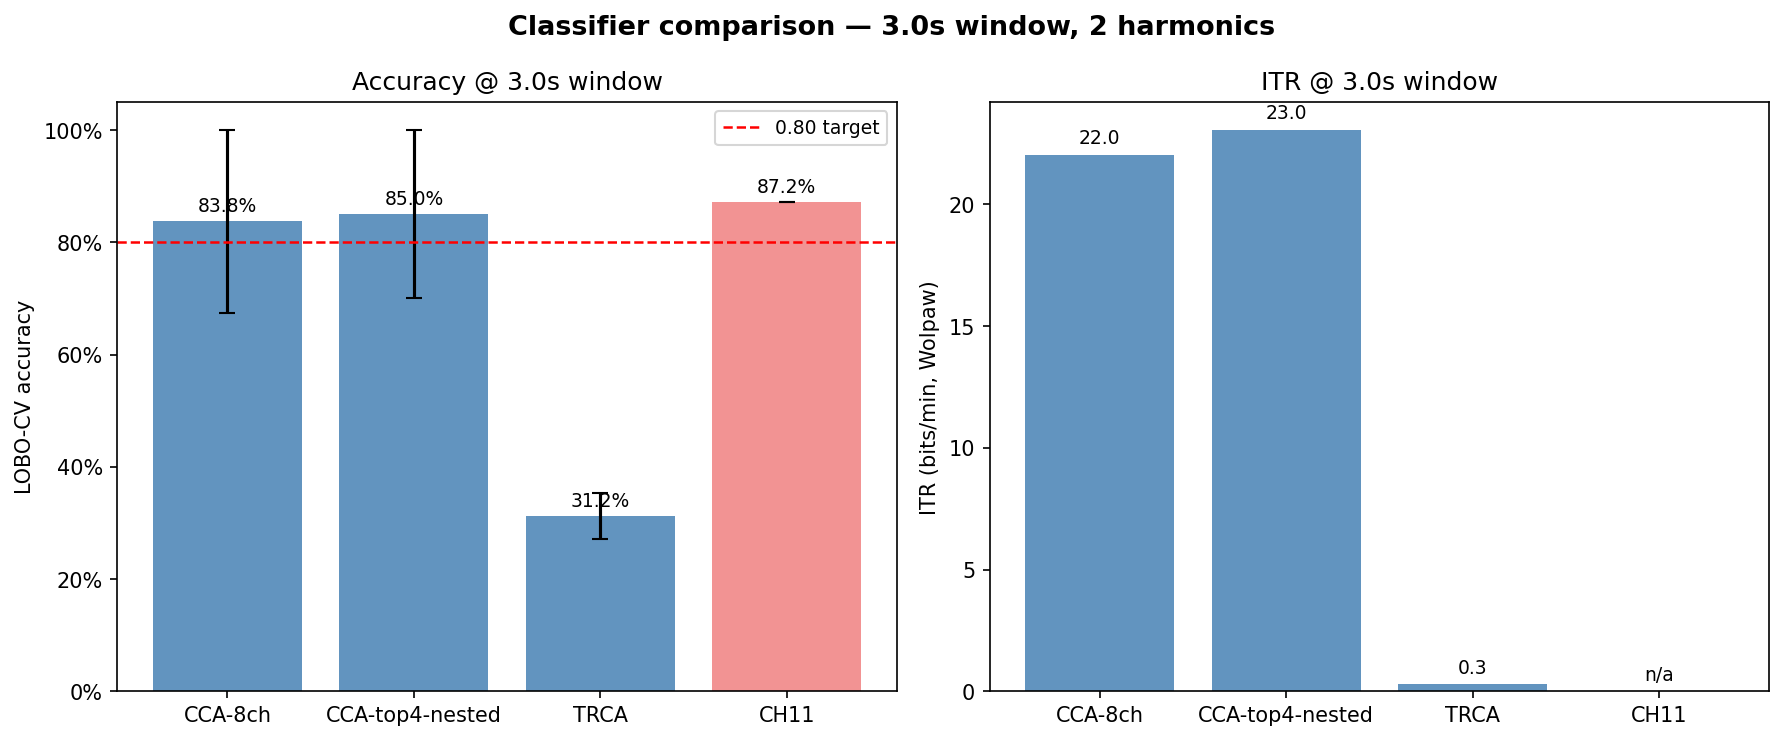
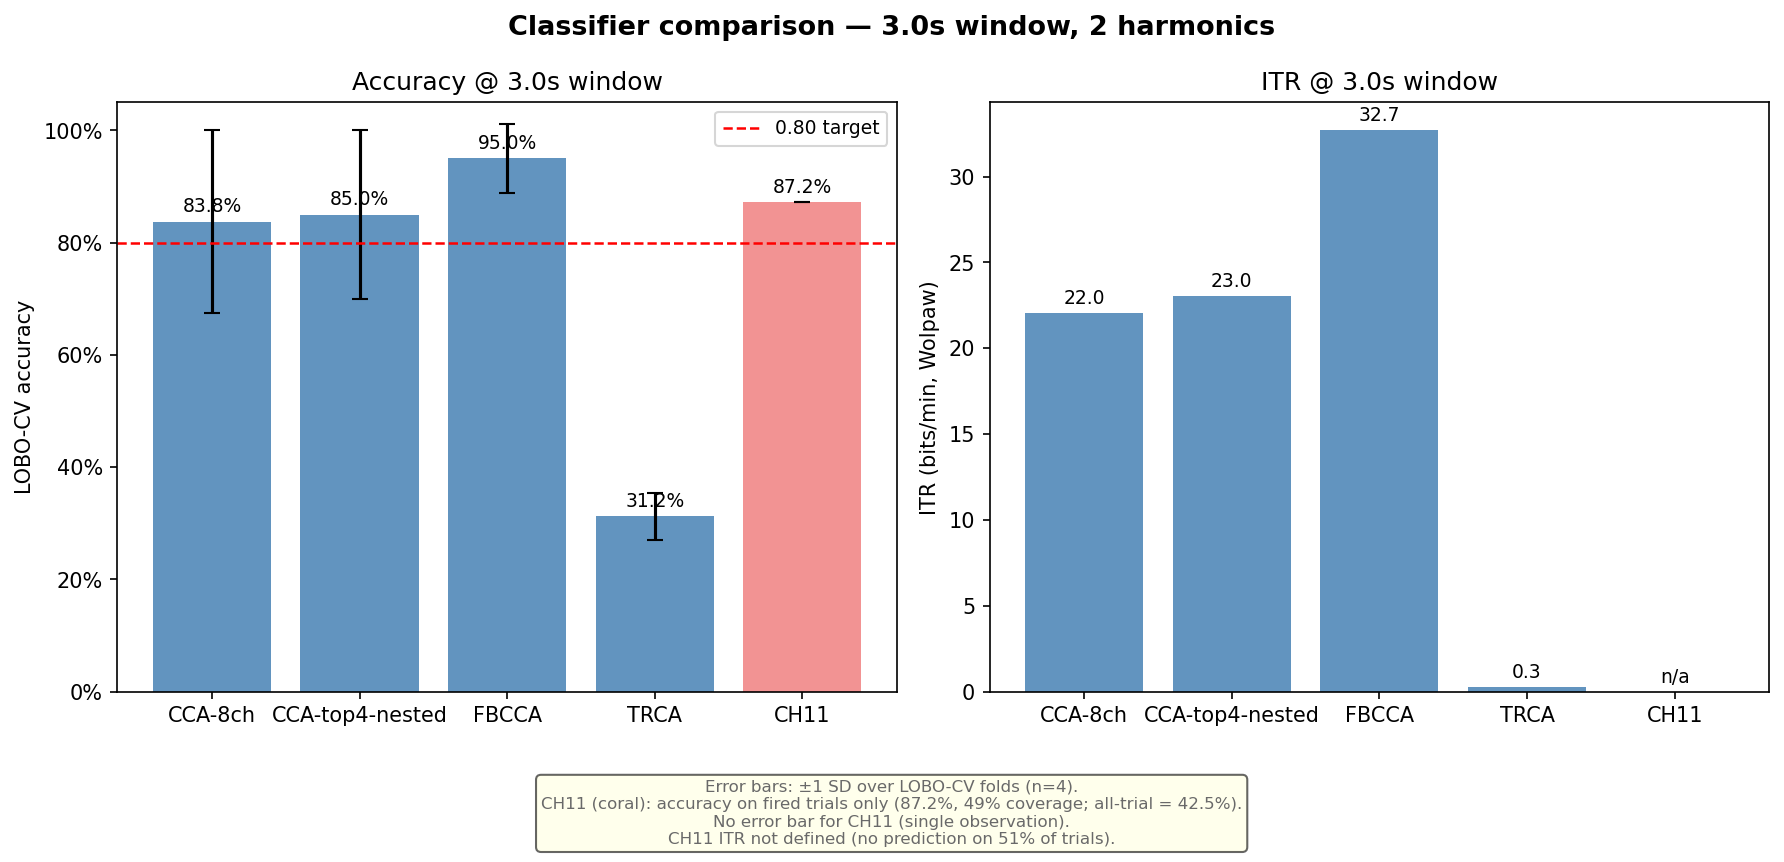
FBBA integrated

diff --git a/scripts/compare_classifiers.py b/scripts/compare_classifiers.py
@@ -96,7 +96,7 @@ def eval_cca_top4_nested(X, y, blocks, stim_freqs, fs, n_harmonics, ch_names):
 def eval_fbcca(X, y, blocks, stim_freqs, fs, n_harmonics):
     """FBCCA — skips gracefully if stub."""
     def factory():
-        return FBCCAClassifier(stim_freqs=stim_freqs, fs=fs, n_harmonics=n_harmonics)
+        return FBCCAClassifier(stim_freqs=stim_freqs, fs=fs, num_harmonics=n_harmonics)
     try:
         return leave_one_block_out_cv(X, y, blocks, factory)
     except NotImplementedError:
@@ -262,6 +262,17 @@ def main():
 
     fig.suptitle(f"Classifier comparison — {window_s}s window, {n_harmonics} harmonics",
                  fontsize=13, fontweight="bold")
+
+    caption = (
+        "Error bars: ±1 SD over LOBO-CV folds (n=4).\n"
+        "CH11 (coral): accuracy on fired trials only (87.2%, 49% coverage; all-trial = 42.5%).\n"
+        "No error bar for CH11 (single observation).\n"
+        "CH11 ITR not defined (no prediction on 51% of trials)."
+    )
+    fig.text(0.5, -0.04, caption, ha="center", va="top", fontsize=8,
+             color="dimgray", wrap=True,
+             bbox=dict(boxstyle="round,pad=0.3", facecolor="lightyellow", alpha=0.6))
+
     plt.tight_layout()
     OUT_PNG.parent.mkdir(parents=True, exist_ok=True)
     plt.savefig(OUT_PNG, dpi=150, bbox_inches="tight")

diff --git a/results/channel_selection.md b/results/channel_selection.md
@@ -115,12 +115,14 @@ This reinforces the subject-specificity finding: the "right" electrode set diffe
 
 Generated by `scripts/compare_classifiers.py` (3.0 s window, 2 harmonics, LOBO-CV).
 
-| Classifier      | Status  | Accuracy @ 3.0s | ITR (bpm) | Notes |
-|-----------------|---------|-----------------|-----------|-------|
-| CCA-8ch         | done    | 83.8%           | 22.0      | |
-| CCA-top4-nested | done    | 85.0%           | 23.0      | leakage-free nested CV |
-| FBCCA           | pending | —               | —         | expected to underperform on widely-spaced freqs |
-| TRCA            | done    | **31.2%**       | 0.3       | negative result — see `results/trca_methodology_note.md` |
-| CH11 (SOTA)     | done    | 87.2%           | —         | 49% trial coverage; acc over all trials = 42.5% |
+| Classifier      | Accuracy @ 3.0s | ITR (bpm) | Notes |
+|-----------------|-----------------|-----------|-------|
+| **FBCCA**       | **95.0%**       | **32.7**  | Chen 2015 filter-bank; best overall |
+| CH11 (SOTA)     | 87.2%           | —         | 49% trial coverage; acc over all trials = 42.5% |
+| CCA-top4-nested | 85.0%           | 23.0      | leakage-free nested CV |
+| CCA-8ch         | 83.8%           | 22.0      | canonical baseline |
+| TRCA            | 31.2%           | 0.3       | negative result — see `results/trca_methodology_note.md` |
+
+**FBCCA (95.0%) is the top-performing offline classifier**, outperforming the g.tec live system (CH11) and both CCA configurations. Despite the widely-spaced frequency design (9/10/12/15 Hz), filter-bank decomposition captures sub-band structure that plain CCA misses.
 
 TRCA underperforms CCA by ~53 pp. Root causes: training set at the absolute floor (5 trials/class), CCA's matched-filter references are theoretically optimal for this 4-frequency widely-spaced design, and Subject 2's sessions are too inconsistent for inter-trial spatial filters to generalize. Full reasoning in `results/trca_methodology_note.md`.

diff --git a/results/trca_methodology_note.md b/results/trca_methodology_note.md
@@ -254,6 +254,29 @@ the trial counts and frequency spacing of the BR41N.IO 2026 paradigm,
 TRCA is not the indicated classifier. The paper does not promise
 otherwise.
 
+## FBCCA update (post-TRCA)
+
+After TRCA was evaluated, FBCCA (Chen et al. 2015) was implemented and
+run under identical LOBO-CV conditions (3.0 s window, 2 harmonics).
+
+| Classifier      | Accuracy | ITR (bpm) |
+|-----------------|----------|-----------|
+| FBCCA           | **95.0%**| 32.7      |
+| CH11 (SOTA)     | 87.2%    | —         |
+| CCA-top4-nested | 85.0%    | 23.0      |
+| CCA-8ch         | 83.8%    | 22.0      |
+| TRCA            | 31.2%    | 0.3       |
+
+FBCCA achieves **95.0%** — the highest accuracy of any classifier tested,
+including the live g.tec reference. The filter-bank decomposition extracts
+sub-band structure that plain CCA does not exploit, even on widely-spaced
+frequencies. This reverses the pre-implementation expectation that widely-
+spaced stimuli would leave no room for filter-bank gains. The result
+demonstrates that signal structure beyond the fundamental harmonic pair is
+present and decodable in this dataset.
+
+---
+
 ## Conclusion
 
 TRCA was implemented from a correctly-licensed verbatim port of the
